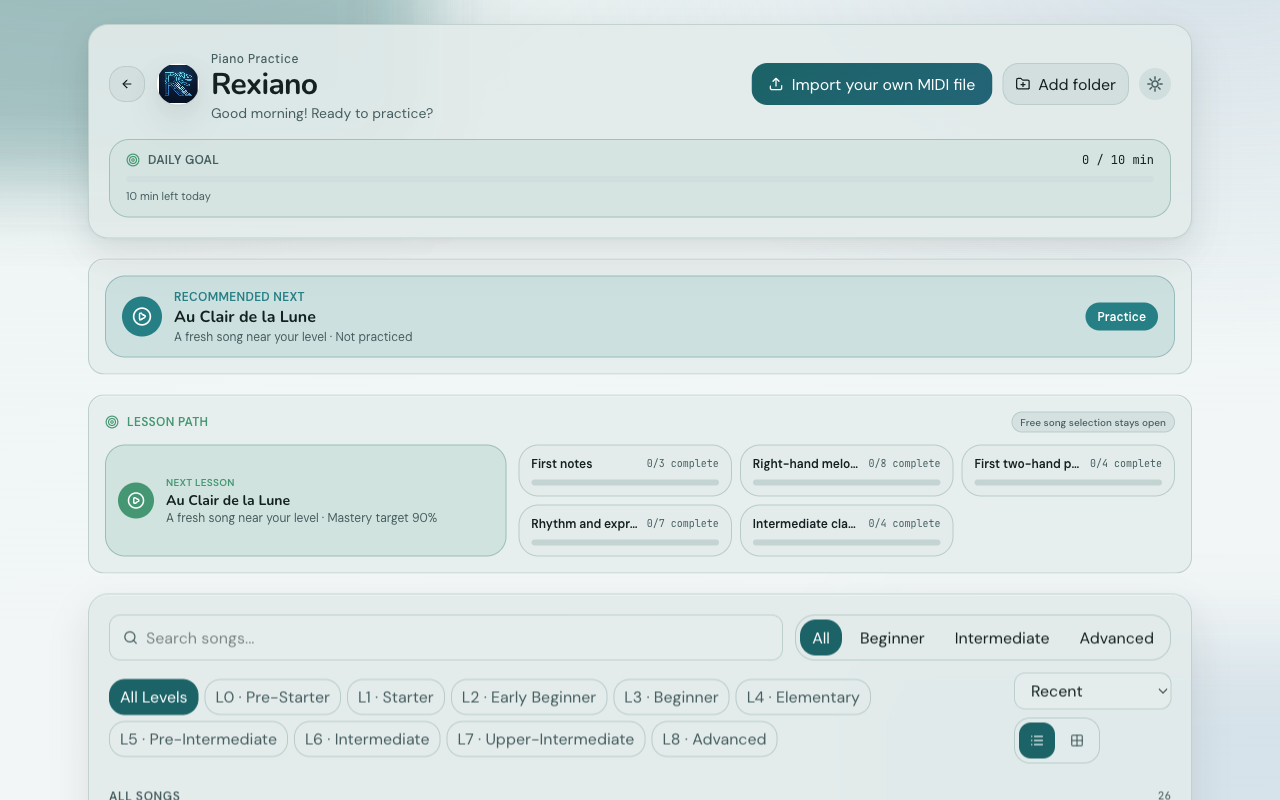
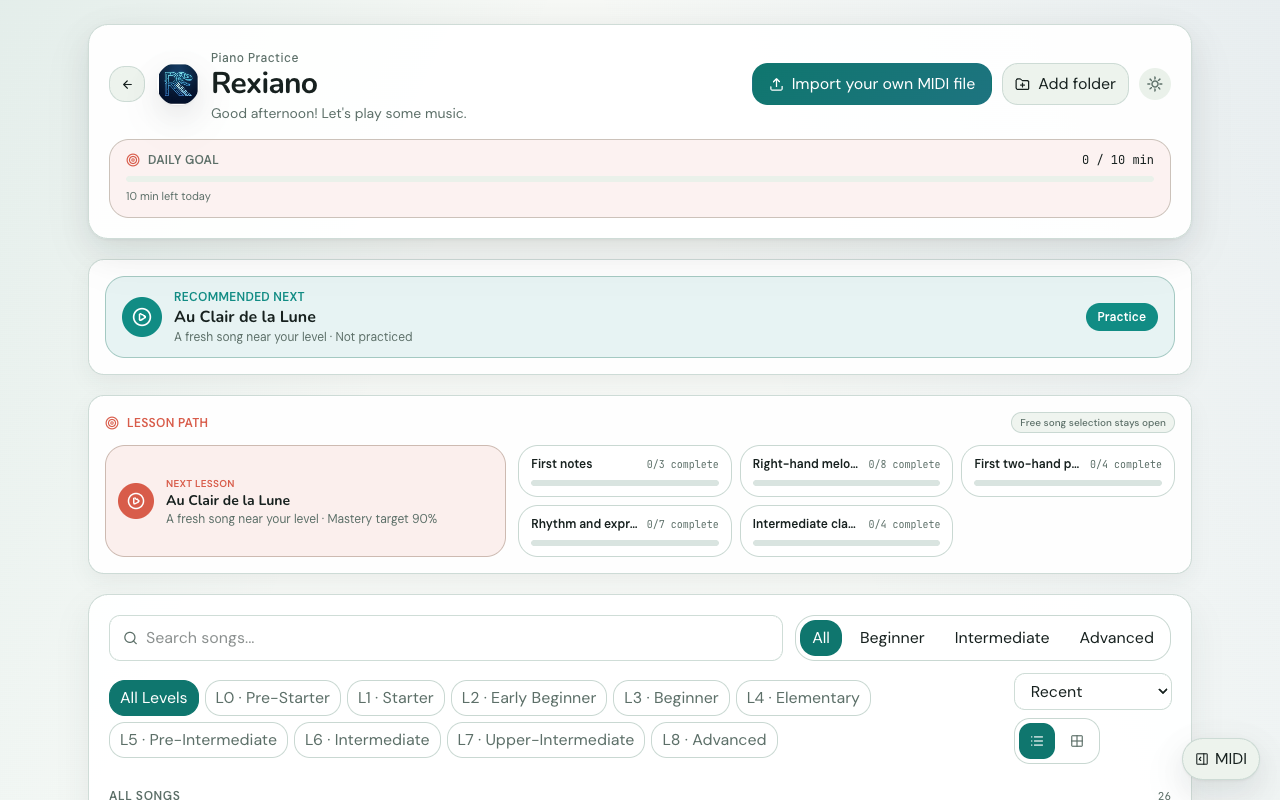
fix: improve ocean theme visual balance (#175)
Tune the Ocean palette, simplify shell background effects, add token contrast checks, and refresh documentation screenshots.

diff --git a/src/renderer/src/assets/main.css b/src/renderer/src/assets/main.css
@@ -22,17 +22,17 @@
   --radius-xl: 1.25rem;
 
   /* Fallback colors before theme store hydrates */
-  --color-bg: #f2f6f6;
-  --color-surface: #e6eeed;
-  --color-surface-alt: #d6e2e1;
-  --color-accent: #1e6e72;
-  --color-accent-hover: #165a5d;
-  --color-text: #132425;
-  --color-text-muted: #435a5d;
-  --color-border: #bfd1cf;
-  --color-note3: #3d74a6;
-  --color-hit-glow: #66c7cb;
-  --color-streak-gold: #cfb066;
+  --color-bg: #f6f8f5;
+  --color-surface: #ffffff;
+  --color-surface-alt: #eaf1ea;
+  --color-accent: #0f766e;
+  --color-accent-hover: #0b5e58;
+  --color-text: #17211f;
+  --color-text-muted: #5c6f68;
+  --color-border: #c9d8d2;
+  --color-note3: #3e6ea8;
+  --color-hit-glow: #f4c95d;
+  --color-streak-gold: #d6a33a;
   --color-scrollbar-track: color-mix(
     in srgb,
     var(--color-surface-alt) 82%,
@@ -68,20 +68,20 @@ body {
   font-family: var(--font-body);
   color: var(--color-text);
   background:
-    radial-gradient(
-      1200px 700px at 8% -20%,
-      color-mix(in srgb, var(--color-accent) 14%, transparent),
-      transparent 62%
+    linear-gradient(
+      115deg,
+      color-mix(in srgb, var(--color-accent) 8%, transparent),
+      transparent 34%
     ),
-    radial-gradient(
-      1100px 650px at 95% -5%,
-      color-mix(in srgb, var(--color-note3) 14%, transparent),
-      transparent 60%
+    linear-gradient(
+      245deg,
+      color-mix(in srgb, var(--color-note3) 8%, transparent),
+      transparent 42%
     ),
     linear-gradient(
       170deg,
       var(--color-bg),
-      color-mix(in srgb, var(--color-bg) 88%, #ffffff)
+      color-mix(in srgb, var(--color-surface-alt) 38%, #ffffff)
     );
   text-rendering: geometricPrecision;
   -webkit-font-smoothing: antialiased;
@@ -128,65 +128,27 @@ textarea:focus-visible {
 
 .app-shell::before,
 .app-shell::after {
-  content: "";
-  position: absolute;
-  pointer-events: none;
-  z-index: -1;
-  filter: blur(38px);
-}
-
-.app-shell::before {
-  width: 48vw;
-  height: 42vh;
-  left: -15vw;
-  top: -20vh;
-  background: color-mix(in srgb, var(--color-accent) 18%, transparent);
-  animation: ambient-drift-a 24s ease-in-out infinite alternate;
-}
-
-.app-shell::after {
-  width: 46vw;
-  height: 36vh;
-  right: -12vw;
-  bottom: -16vh;
-  background: color-mix(in srgb, var(--color-note3) 14%, transparent);
-  animation: ambient-drift-b 28s ease-in-out infinite alternate;
-}
-
-@keyframes ambient-drift-a {
-  0% {
-    transform: translate3d(0, 0, 0) scale(1);
-  }
-  100% {
-    transform: translate3d(3vw, 2vh, 0) scale(1.06);
-  }
-}
-
-@keyframes ambient-drift-b {
-  0% {
-    transform: translate3d(0, 0, 0) scale(1);
-  }
-  100% {
-    transform: translate3d(-4vw, -2vh, 0) scale(1.08);
-  }
+  display: none;
 }
 
 .surface-panel {
-  background: color-mix(in srgb, var(--color-surface) 90%, transparent);
-  border: 1px solid color-mix(in srgb, var(--color-border) 78%, transparent);
+  background: color-mix(in srgb, var(--color-surface) 96%, transparent);
+  border: 1px solid color-mix(in srgb, var(--color-border) 88%, transparent);
   border-radius: var(--radius-xl);
-  backdrop-filter: blur(16px);
-  -webkit-backdrop-filter: blur(16px);
+  backdrop-filter: blur(10px);
+  -webkit-backdrop-filter: blur(10px);
   box-shadow:
-    inset 0 1px 0 color-mix(in srgb, #ffffff 52%, transparent),
-    0 18px 36px color-mix(in srgb, #0d1719 10%, transparent);
+    inset 0 1px 0 color-mix(in srgb, #ffffff 70%, transparent),
+    0 16px 32px color-mix(in srgb, #17211f 8%, transparent);
 }
 
 .surface-elevated {
-  background: color-mix(in srgb, var(--color-surface) 82%, #ffffff 18%);
-  border: 1px solid color-mix(in srgb, var(--color-border) 88%, transparent);
+  background: color-mix(in srgb, var(--color-surface) 92%, var(--color-bg));
+  border: 1px solid color-mix(in srgb, var(--color-border) 92%, transparent);
   border-radius: var(--radius-lg);
-  box-shadow: inset 0 1px 0 color-mix(in srgb, #ffffff 44%, transparent);
+  box-shadow:
+    inset 0 1px 0 color-mix(in srgb, #ffffff 74%, transparent),
+    0 8px 18px color-mix(in srgb, #17211f 5%, transparent);
 }
 
 .kicker-label {

diff --git a/src/renderer/src/themes/tokens.test.ts b/src/renderer/src/themes/tokens.test.ts
@@ -31,6 +31,66 @@ const REQUIRED_COLOR_KEYS: (keyof ThemeTokens["colors"])[] = [
   "streakGold",
 ];
 
+function rgbFromHex(hex: string): { r: number; g: number; b: number } {
+  return {
+    r: parseInt(hex.slice(1, 3), 16) / 255,
+    g: parseInt(hex.slice(3, 5), 16) / 255,
+    b: parseInt(hex.slice(5, 7), 16) / 255,
+  };
+}
+
+function linearize(channel: number): number {
+  return channel <= 0.03928
+    ? channel / 12.92
+    : ((channel + 0.055) / 1.055) ** 2.4;
+}
+
+function relativeLuminance(hex: string): number {
+  const { r, g, b } = rgbFromHex(hex);
+  return 0.2126 * linearize(r) + 0.7152 * linearize(g) + 0.0722 * linearize(b);
+}
+
+function contrastRatio(foreground: string, background: string): number {
+  const a = relativeLuminance(foreground);
+  const b = relativeLuminance(background);
+  const lighter = Math.max(a, b);
+  const darker = Math.min(a, b);
+  return (lighter + 0.05) / (darker + 0.05);
+}
+
+function hslFromHex(hex: string): { h: number; s: number; l: number } {
+  const { r, g, b } = rgbFromHex(hex);
+  const max = Math.max(r, g, b);
+  const min = Math.min(r, g, b);
+  const l = (max + min) / 2;
+
+  if (max === min) {
+    return { h: 0, s: 0, l };
+  }
+
+  const d = max - min;
+  const s = l > 0.5 ? d / (2 - max - min) : d / (max + min);
+  let h = 0;
+  switch (max) {
+    case r:
+      h = (g - b) / d + (g < b ? 6 : 0);
+      break;
+    case g:
+      h = (b - r) / d + 2;
+      break;
+    default:
+      h = (r - g) / d + 4;
+      break;
+  }
+
+  return { h: h * 60, s, l };
+}
+
+function hueDistance(a: string, b: string): number {
+  const delta = Math.abs(hslFromHex(a).h - hslFromHex(b).h);
+  return Math.min(delta, 360 - delta);
+}
+
 describe("Theme tokens", () => {
   test("all four theme IDs are defined", () => {
     for (const id of ALL_THEME_IDS) {
@@ -131,6 +191,29 @@ describe("Theme tokens", () => {
     test("no two themes share the same label", () => {
       const labels = ALL_THEME_IDS.map((id) => themes[id].label);
       expect(new Set(labels).size).toBe(labels.length);
+    });
+  });
+
+  describe("ocean theme visual balance", () => {
+    const ocean = themes.ocean;
+
+    test("uses a clean elevated surface with strong text contrast", () => {
+      expect(hslFromHex(ocean.colors.surface).s).toBeLessThanOrEqual(0.08);
+      expect(relativeLuminance(ocean.colors.surface)).toBeGreaterThanOrEqual(
+        0.94,
+      );
+      expect(
+        contrastRatio(ocean.colors.text, ocean.colors.surface),
+      ).toBeGreaterThanOrEqual(12);
+    });
+
+    test("keeps feedback colors visually separate from the primary accent", () => {
+      expect(
+        hueDistance(ocean.colors.hitLine, ocean.colors.accent),
+      ).toBeGreaterThanOrEqual(90);
+      const glowHue = hslFromHex(ocean.colors.hitGlow).h;
+      expect(glowHue).toBeGreaterThanOrEqual(35);
+      expect(glowHue).toBeLessThanOrEqual(65);
     });
   });
 });

diff --git a/src/renderer/src/themes/tokens.ts b/src/renderer/src/themes/tokens.ts
@@ -73,37 +73,37 @@ export const themes: Record<ThemeId, ThemeTokens> = {
     },
   },
   /**
-   * Ocean — modern slate-cyan palette with crisp contrast and low visual noise.
+   * Ocean — crisp practice-studio palette with teal structure and warm feedback.
    */
   ocean: {
     id: "ocean",
     label: "Ocean",
-    dot: "#1E6E72",
+    dot: "#0F766E",
     colors: {
-      bg: "#F2F6F6",
-      surface: "#E6EEED",
-      surfaceAlt: "#D6E2E1",
-      accent: "#1E6E72",
-      accentHover: "#165A5D",
-      text: "#132425",
-      textMuted: "#4F686A",
-      border: "#BFD1CF",
-      canvasBg: "#EAF1F0",
-      gridLine: "#D8E4E2",
-      hitLine: "#1E6E72",
-      note1: "#2A8A8F",
-      note2: "#4FA17E",
-      note3: "#3D74A6",
-      note4: "#D0925A",
-      keyActive: "#4BA7AD",
-      keyWhite: "#FDFEFE",
-      keyWhiteBottom: "#E9F0EF",
-      keyBlack: "#1E3335",
-      keyBlackTop: "#294245",
-      hitGlow: "#66C7CB",
-      missGray: "#5D6B6C",
-      comboText: "#3A9E86",
-      streakGold: "#CFB066",
+      bg: "#F6F8F5",
+      surface: "#FFFFFF",
+      surfaceAlt: "#EAF1EA",
+      accent: "#0F766E",
+      accentHover: "#0B5E58",
+      text: "#17211F",
+      textMuted: "#5C6F68",
+      border: "#C9D8D2",
+      canvasBg: "#F8FAF7",
+      gridLine: "#DDE8E2",
+      hitLine: "#E85D4F",
+      note1: "#118C84",
+      note2: "#D85C4A",
+      note3: "#3E6EA8",
+      note4: "#D6A33A",
+      keyActive: "#16A394",
+      keyWhite: "#FFFFFF",
+      keyWhiteBottom: "#EEF4EF",
+      keyBlack: "#162321",
+      keyBlackTop: "#243532",
+      hitGlow: "#F4C95D",
+      missGray: "#7B8681",
+      comboText: "#0F766E",
+      streakGold: "#D6A33A",
     },
   },
   /**
